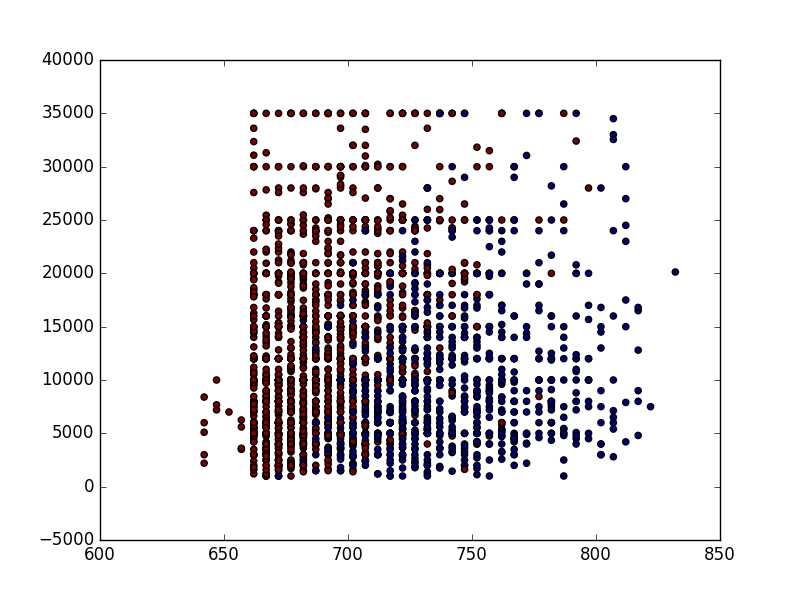
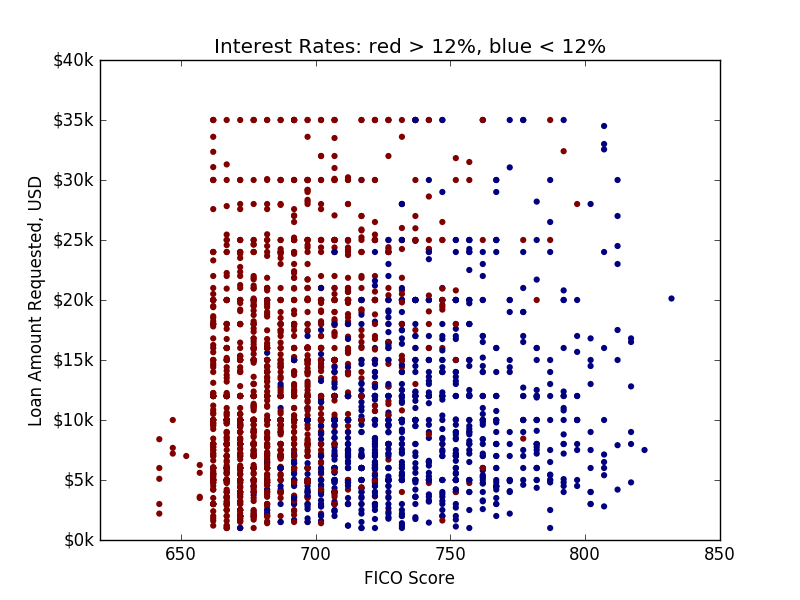
add plot labels, scales

diff --git a/logistic_regression.py b/logistic_regression.py
@@ -131,21 +131,40 @@ fico_array = range(540, 860, 10)
 fico_logit = map(lambda x: logistic_fn(10000, x, result.params), fico_array)
 # print 'fico array:', fico_array, fico_logit
 plt.plot(fico_array, fico_logit)
+plt.xlim(550, 850)
+plt.xlabel('FICO Score')
+plt.ylabel('Probability : Interest Rate > 12%')
+plt.title('Logistic Plot')
+plt.text(590, 0.25, ' Lower FICO Score ~\nHigher Interest Rate')
 plt.savefig(plotdir+'fico_logistic.png')
 
 plt.clf()
-divvy = 8
+divvy = 20
 loan_array = map(lambda x: 10 ** (float(x) / divvy), range(2*divvy, 5*divvy))
 loan_logit = map(lambda x: logistic_fn(x, 720, result.params), loan_array)
 # print 'loan array:', loan_array, loan_logit
 plt.plot(loan_array, loan_logit)
+# plt.xscale('log')
+plt.xlim(0, 40000)
+locs, labels = plt.xticks()
+plt.xticks(locs, map(lambda x: '$'+str(int(x/1000))+'k', locs))
+plt.xlabel('Loan Amount Requested, USD')
+plt.ylabel('Probability : Interest Rate > 12%')
+plt.title('Logistic Plot')
+plt.text(14000, 0.25, 'Higher Loan Amount ~ Lower FICO Score\n          ~ Higher Interest Rate')
 plt.savefig(plotdir+'loan_logistic.png')
 
 plt.clf()
 # plt.plot(loansData['FICO.Score'], loansData['Amount.Requested'], 'o', color='#ff00ff')
-# plt.scatter(loansData['FICO.Score'], loansData['Amount.Requested'], c='red')
-# plt.scatter(loansData['FICO.Score'], loansData['Amount.Requested'], c=loansData['IR_TF'])
-plt.scatter(loansData['FICO.Score'], loansData['Amount.Requested'], c=loansData['IR_TF'])
+plt.scatter(loansData['FICO.Score'], loansData['Amount.Requested'], c=loansData['IR_TF'], linewidths=0)
+plt.xlim(620, 850)
+plt.ylim(0, 40000)
+locs, labels = plt.yticks()
+plt.yticks(locs, map(lambda x: '$'+str(int(x/1000))+'k', locs))
+plt.xlabel('FICO Score')
+plt.ylabel('Loan Amount Requested, USD')
+plt.title('Interest Rates: red > 12%, blue < 12%')
+# plt.legend(['red > 12% interest, blue < 12% interest'])
 plt.savefig(plotdir+'loan_v_fico.png')
 
 print '\nplots created: fico_logistic.png, loan_logistic.png, loan_v_fico.png'
